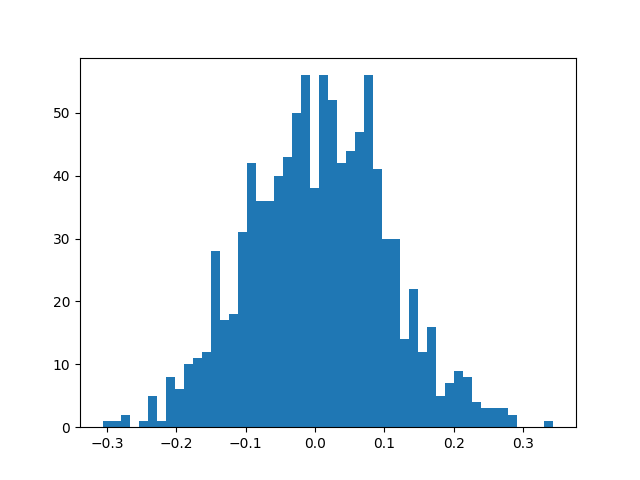
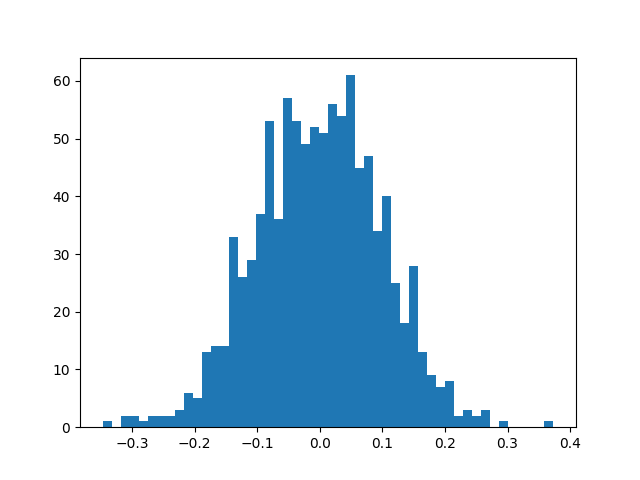
module8 ready for eval

diff --git a/Module08/ex1/loading.py b/Module08/ex1/loading.py
@@ -1,8 +1,9 @@
 import importlib
 import os
+import types
 
 
-def display_environment():
+def display_environment() -> None:
     """Display the current environment details"""
     env = os.environ.get("VIRTUAL_ENV")
     if env is not None:
@@ -14,7 +15,7 @@ def display_environment():
         print("ENVIRONMENT: Global")
 
 
-def get_module(name: str):
+def get_module(name: str) -> None:
     """Import and return the module"""
     try:
         module = importlib.import_module(name)
@@ -29,7 +30,7 @@ def get_module(name: str):
         print(f"Error: {e}")
 
 
-def check_dependencies_and_run():
+def check_dependencies_and_run() -> None:
     """Check pandas, request and matplotlib lib module is
        installed in the python environment or not"""
     print("Checking dependencies:")
@@ -65,7 +66,9 @@ def check_dependencies_and_run():
         print("run: pip install -r requirements.txt or poetry install")
 
 
-def run_analysis(pd, requests, plt):
+def run_analysis(pd: types.ModuleType,
+                 requests: types.ModuleType,
+                 plt: types.ModuleType) -> None:
     """Run the analysis using the pandas, requests and matplotlib
        modules"""
     try: